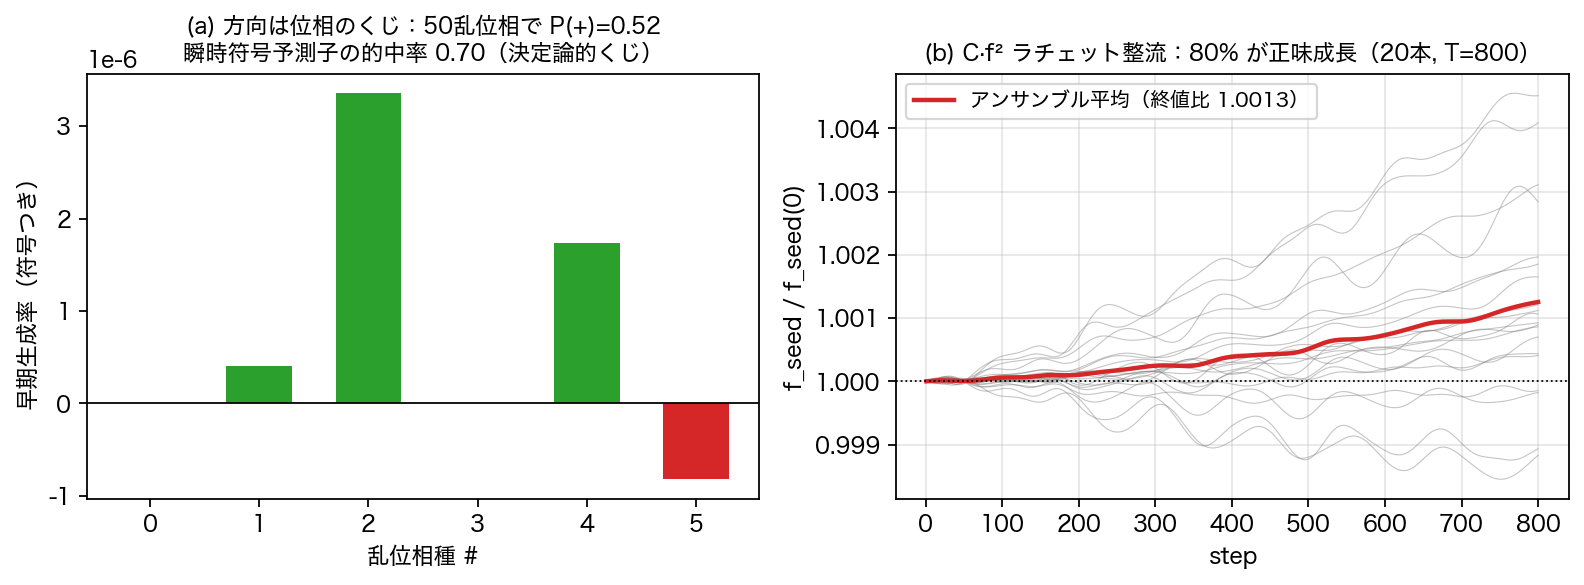
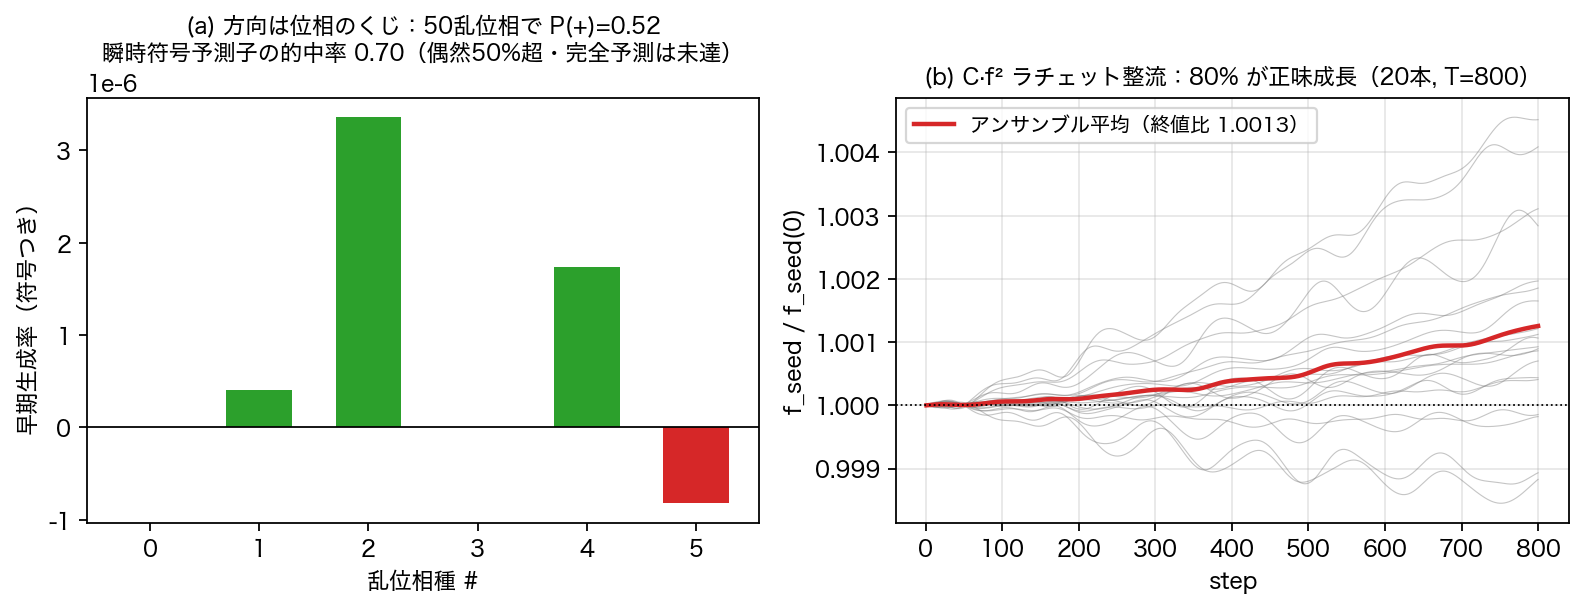
多体論文 日本語md完成v1: 三層分離・動機=二論文の隙間・二因子則(凝縮ゲート2.74=前論文終着点)・移植(p=2.0011/毛帳簿6e289)・GENESIS種の統一(ε則2%一致)・局所性の住所・運動厳密・くじ0.52+整流80%・E8null・反証修正5件(計器3系統の教訓明文化)・先行研究7分野・図9枚。図6a予測子表現を実測0.70に誠実化

diff --git a/次元の生成構造/万能相互作用多体接続_v1/make_paper_figures_multibody_v1.py b/次元の生成構造/万能相互作用多体接続_v1/make_paper_figures_multibody_v1.py
@@ -209,6 +209,7 @@ ok = (abs(frac_above - stored_ratchet["frac_final_above_init"]) < 1e-9
       and abs(mean_ratio - stored_ratchet["mean_ratio"]) < 1e-6)
 print(f"  ラチェット対照: frac={frac_above} (保存値 {stored_ratchet['frac_final_above_init']}), "
       f"mean_ratio={mean_ratio:.6f} (保存値 {stored_ratchet['mean_ratio']:.6f}) → 一致={ok}")
+np.savez_compressed(HERE / "ratchet_trajectories_v1.npz", trajs=trajs)
 
 fig, (ax1, ax2) = plt.subplots(1, 2, figsize=(10, 3.9))
 rr = np.array(pr["rates"])
@@ -216,7 +217,7 @@ ax1.bar(np.arange(len(rr)), rr, color=["tab:green" if x_ > 0 else "tab:red" for 
 ax1.axhline(0, color="k", lw=0.8)
 ax1.set_xlabel("乱位相種 #"); ax1.set_ylabel("早期生成率（符号つき）")
 ax1.set_title(f"(a) 方向は位相のくじ：50乱位相で P(+)={h1['P_plus']:.2f}\n"
-              f"瞬時符号予測子の的中率 {h1['sign_predictor_hit']:.2f}（決定論的くじ）", fontsize=10)
+              f"瞬時符号予測子の的中率 {h1['sign_predictor_hit']:.2f}（偶然50%超・完全予測は未達）", fontsize=10)
 tt = np.arange(1, T + 1)
 for i in range(trajs.shape[0]):
     ax2.plot(tt, trajs[i] / trajs[i, 0], color="tab:gray", lw=0.5, alpha=0.45)

diff --git a/次元の生成構造/万能相互作用多体接続_v1/インフレーションの終わり方が物質生成の始まり方である_完成論文_v1.md b/次元の生成構造/万能相互作用多体接続_v1/インフレーションの終わり方が物質生成の始まり方である_完成論文_v1.md
@@ -1,0 +1,258 @@
+# インフレーションの終わり方が、物質生成の始まり方である——タイミング則を置かない万能相互作用のN体埋め込みと通し創世走行
+
+木原範昭（独立研究者）
+
+2026-08-05 v1
+
+---
+
+## 要旨
+
+先行二論文は半分ずつを与えた：開始様式論文 [2] は宇宙の始まり方（不安定な自己無撞着閉包だけが潜伏指数増幅を起こし、三方向準安定構造で止まる）を与えたが、そこで力学は止まり物質がない。二体論文 [1] は生成の機構（波形のみを入力とする万能非弾性頂点）を与えたが、衝突はループカウンタであり、いつ・どこで起こるかは未回答だった。本稿はこの隙間を、**タイミング則を一切置かずに**閉じる。二体論文の頂点をN体関係波系（完全グラフの $M=N(N-1)/2$ 本の関係波 × レジスタ多スライス）に常時作用で埋め込み、次を実測した。(1) 生成の見かけの時期は**二因子則**——生成率 = 凝縮ゲート × $Cf^2$——が決める（ゲート比2.74実測）。そして凝縮とは開始様式論文の終着点そのものである：**前論文のエンディングが本論文のオープニングの条件であることは、仮定ではなく実測である**。(2) 二体の法則は多体で形を変えずに成立する：点火則は冪 $p=2.0011$・係数一定0.4%で移植され、対構造censusは毛（巻き数）込み完全版まで成立（和則排他比 $10^{289}$・毛ロック0.9997）。(3) 真空→潜伏指数増幅→三方向凝縮→物質析出を単一力学・スイッチなしで通しで走らせ（GENESIS）、インフレーションを点火する種と物質になる種が同一の摂動であること（種の統一）を発見した。(4) 局所性はグラフに住まない——完全グラフへの濃縮は生成率を変えず（比1.28, 1.02）、局所性はレジスタ軸に住む（濃縮応答×19.6）。生成物は生誕位置に固定され、調和閉鎖分散が形不変の並進を与える（1D偏差 $3\times10^{-4}$ セル以下・3D偏差0.0000）。(5) 生成方向は種の位相のくじ（50乱位相で $P(+)=0.52$）であり、正味の物質は $Cf^2$ 自己触媒の整流で生じる（アンサンブルの80%が正味成長）。条件付き導出として、媒介頂点一意化定理（閉塞保存 ⟺ $g_2=-g_1$ かつ媒介強度の対対称性——二体論文の一意化はその $M=2$ 特別場合）と、計算構造の恒等性（頂点の隣接和は辺→ノード→辺の2パスに厳密に畳め、演算量は状態サイズ線形＝理論下限。これを保証するのは無名性そのもの）を示す。本稿は仮定・条件付き導出・実測の三層を分離して報告し、仮定の価値は、独立に公開された二つの論文の物理がスイッチなしの単一力学の別の章として同時に再現されたこと——接続の実証——で測る。
+
+---
+
+## 1. 本稿の性格——仮定・導出・実測の三層分離
+
+本稿は、新しい相互作用を提案する論文ではなく、その正しさを証明する論文でもない。二体論文 [1] で明示的な仮定として置かれ条件付きで一意化された万能非弾性頂点を、N体関係波系にタイミング則を一切置かずに埋め込み、何が起こるかを実測する論文である。
+
+- **(a) 仮定**：二体論文からの頂点の継承と、埋め込みの設計選択（§4）。
+- **(b) 条件付き導出**：媒介頂点一意化定理と計算構造の恒等性（§5）。
+- **(c) 実測**：タイミングの解消、二体法則の移植、通し創世走行、位置と運動、方向のくじと整流（§6–§10）。
+
+読者が検証できるのは (b) と (c) であり、(a) は出発点である。
+
+## 2. 主張
+
+**第一に——本稿の動機であり設計原理——「いつ相互作用が起こるか」を手で選ばない。** 先行二論文は半分ずつを与えた。開始様式論文は宇宙の始まり方を与えたが、終着点（三方向準安定構造）で力学は止まり、物質がない。二体論文は生成の機構を与えたが、衝突はループカウンタであり、いつ・どこで起こるかは未回答だった。この隙間を「凝縮後に相互作用を呼ぶ」等の規則で埋めれば、それはIF文であり、二体論文が守った無名性が多体で崩壊する。本稿の設計はただ一つ：**相互作用は常時作用する**。事象らしさは入力ではなく出力である。
+
+**第二に、仮定を全て列挙する（§4）。** (i) 線形力学は第7・8論文の原本を無改変で継承（read-only import・SHA記録）。(ii) 頂点は二体論文の一意化形を隣接和に拡張——各関係波は、体を共有する関係波との二波頂点の単純和で結合する（三波以上を置かない）。(iii) 状態はレジスタ多スライス $C\in\mathbb{C}^{M\times N_{reg}}$、読出しは合算スペクトルの共有読出し。(iv) 強度は読出し量 $R$ の流用で新定数なし。**四項は設計上の選択であって導出ではない。**
+
+**第三に、媒介頂点一意化定理（条件付き導出、§5.1）。** 仮定クラスの内部で、閉塞保存は $g_2=-g_1$ **かつ**媒介強度の対対称性を強制する。二体論文の $g_2=-g_1$ はこの定理の $M=2$ 特別場合である。閉塞が強度に要求するのは対対称性のみで、算術平均則は閉塞から導出されない追加の実験事実である。拡張定理 T-L：レジスタ点ごとの対対称強度 $R_{ee'}(n)$ も閉塞を厳密保存する——局所的な相互作用強度は公理と両立する（機械検証済み）。
+
+**第四に、計算構造の恒等性（条件付き導出、§5.2）。** 頂点の隣接和は、辺→共有ノード→辺の2パス集約（頂点モーメントと自己減算）に厳密に畳める。演算量は状態サイズ線形 $O(M\cdot N_{reg}\log N_{reg})$——全対照合 $O(N^4)$ も隣接和 $O(N^3)$ も不要で、理論下限に達する。この畳み込みを可能にするのは無名性（全対同一法則・対固有定数なし）そのものである。
+
+**第五に、実測1：タイミング問題は二因子則として解消した（§6）。** 生成率 = 凝縮ゲート × $Cf^2$。凝縮ゲート比2.74を実測した。凝縮とは開始様式論文の終着点——三方向準安定構造——である。前論文のエンディングが本論文のオープニングの条件であることは、仮定ではなく実測である。
+
+**第六に、実測2：二体の法則は多体で形を変えずに成立する（§7）。** 点火則は冪 $p=2.0011$・係数一定0.4%で再現。censusは毛込み完全版まで成立：和則排他（予言外は $10^{-289}$ 倍）、毛ロック0.9997、厳密ゼロからの同時成長。
+
+**第七に、実測3：通し創世走行 GENESIS（§8）。** 真空→潜伏指数増幅→三方向凝縮→物質析出を単一力学・スイッチなしで走らせた。発見：**種の統一**——インフレーションを点火する種と物質になる種は同一の摂動である。
+
+**第八に、実測4：位置と運動（§9）。** 局所性はグラフに住まない（濃縮無効、比1.28, 1.02）。局所性はレジスタ軸に住む（応答×19.6）。生成物は生誕位置に固定され、運動は調和閉鎖分散 $\omega_k=k\,\omega_1$ [6] が与える（1D/3Dで形不変並進を実証）。
+
+**第九に、実測5：方向のくじと整流（§10）。** 生成方向は種の位相が決める（50乱位相で $P(+)=0.52$）。瞬時符号予測子の的中率は0.70——偶然50%を上回るが、事前基準0.9には未達であり、くじの決定論性は部分的確認にとどまる（完全な瞬時予測子は公開課題）。正味の物質は対称性の破れの手置きではなく $Cf^2$ 自己触媒の整流で生じ、アンサンブルの80%が正味成長した。モデル内部の機構の実測であり、現実宇宙の物質優勢の説明とは主張しない。
+
+**第十に、null結果を記録する（§11）。** E8関連特殊値系列（$N_{reg}=124,137,144,248$ 等）の選択性は、検定した全計器で null だった。
+
+**第十一に、反証と修正の全過程を記録する（§12）。** 計器の誤り3系統（保存判定・生成率予測子・運動重心計）を含む。
+
+**最後に、本稿が主張しないことと反証条件（§15）。**
+
+## 3. 動機——二つの論文は、つながっていなかった
+
+開始様式論文 [2] の結論はこうである：不安定な自己無撞着閉包（単一コヒーレント凝縮体）だけが潜伏指数増幅を起こし、白色の混沌からは何も増幅されない。増幅の終着点は三方向準安定構造であり、そこで線形力学は完結する。**時空はできた。しかし物質はなく、出来事もない。**
+
+二体論文 [1] の結論はこうである：波形だけを見るIF文なしの単一写像が、誘導・自己触媒・対相関でフェルミオン的構造を生成する。**物質の作り方は分かった。しかし宇宙がない。** 二体系の「衝突」はループカウンタであり、いつ・どこで・なぜ衝突が起こるかは力学の外にあった。
+
+この隙間は未完成ではなく致命傷の候補だった。「相互作用はインフレーション後に呼ぶ」とタイミングを手で選べば、それは粒子種判別と同格のIF文であり、二体論文が守り抜いた無名性が多体への埋め込みの瞬間に崩壊する。都合の良いときだけ相互作用を呼ぶモデルに、生成を語る資格はない。したがって設計は一つしかない：常時作用で埋め込み、「いつ」が物理として出力されるかどうかを実測する。それが本稿である。
+
+## 4. モデルと仮定
+
+### 4.1 関係波グラフ（継承）
+
+基本変数は体（粒子）に住まない。$N$ 個の体（ノード）の各ペアに関係波 $z_e\in\mathbb{C}$ が1本ずつ住む（辺、$M=N(N-1)/2$ 本）。ノード自身は変数を持たず、帳簿の集約点である。二つの関係波は体を共有するとき（隣接）に限り相互作用の資格を持つ——共有する体が媒介する（図1）。線形力学（生成子 $K_{ef}=\sin(\theta_f-\theta_e)$、Cayley一歩、自己無撞着閉包・潜伏・急拡大・三方向生成）は第7・8論文 [3,4] の原本コードを無改変で継承する（SHA-256記録・read-only import）。
+
+![図1 関係波グラフ](fig_graph_N6_v1.png)
+
+**図1**：N=6の関係波グラフ。(a) 体＝ノード、関係波＝辺（M=15本が力学変数）。(b) 隣接＝体の共有：z12（赤）の相互作用相手は体1か体2を共有する8本（青）のみで、共有のない6本（灰破線）は直接結合しない。(c) ノード帳簿：体1に集まる関係波の合計 $A_1$。
+
+### 4.2 埋め込みの仮定
+
+| # | 仮定 | 内容 |
+|---|------|------|
+| (i) | 線形力学の継承 | 第7・8論文原本の read-only import。スライス（レジスタ倍音）ごとに独立に作用 |
+| (ii) | 頂点＝二波頂点の隣接和 | 各辺 $e$ は隣接辺 $e'$ との二体頂点の単純和で結合：$\delta z_e = i\sum_{e'\sim e} R_{ee'}(|z_{e'}|^2 z_e - z_{e'}^2\bar z_e)$。三波以上の頂点は置かない |
+| (iii) | レジスタ多スライス | 状態 $C\in\mathbb{C}^{M\times N_{reg}}$。頂点はレジスタ位置空間の点ごとに作用。読出しは合算スペクトルの共有読出し $\theta=\operatorname{atan2}(\sqrt{P_f},\sqrt{P_b})$, $R=\sin^2\theta$ |
+| (iv) | 新定数なし | 強度は $R$ の流用。判別分岐（IF文）なし（実装の `r>0` は強度ゼロスキップの数値ガード） |
+
+四項は設計選択である。(ii) の二波型と (iv) の無名性は二体論文の仮定の直接継承であり、(i)(iii) は本稿固有の埋め込み選択である（図2）。
+
+![図2 アーキテクチャ](fig_mb1_architecture_v1.png)
+
+**図2**：状態はグラフ軸（M本の関係波）×レジスタ軸（$N_{reg}$ 点）の直積格子。線形部はスライス（列）ごと、頂点はレジスタ点ごとにノード帳簿を介して作用する。
+
+## 5. 条件付き導出
+
+### 5.1 媒介頂点一意化定理
+
+仮定クラス（二波型・点ごと・三次・共通位相不変・自己散乱なし）の最も一般な形 $\delta z_e = i\sum_{e'\sim e}(g_1 R_{ee'}|z_{e'}|^2 z_e + g_2 R'_{ee'} z_{e'}^2\bar z_e)$ に対し、零二乗和閉塞 $\sum_e z_e^2$ の保存（レジスタ点ごと）は次を強制する：
+
+$$g_2 = -g_1 \quad\text{かつ}\quad R_{ee'} = R_{e'e}\ (\text{対対称性}).$$
+
+証明は一次変分の対ごとの相殺による：辺対 $(e,e')$ の寄与は $g_1 R_{ee'}|z_{e'}|^2 z_e^2 + g_2 R'_{ee'} z_{e'}^2 |z_e|^2$ とその $e\leftrightarrow e'$ 交換の和であり、恒等的にゼロになるのは係数が反対符号で強度が対対称のときに限る。三点を明確にする。第一に、これはクラス内一意性である。第二に、二体論文の $g_2=-g_1$ [1] は本定理の $M=2$（隣接和が相手一つ）特別場合である。第三に、閉塞が強度に要求するのは対対称性**のみ**であり、二辺の $R$ が異なる場合の混合則として算術平均も積もともに閉塞を厳密保存する（機械検証 T5）。実際の力学が算術平均と整合することは追加の実験事実である。
+
+**拡張定理 T-L**：対対称性は点 $n$ ごとに成立するから、レジスタ点依存の対対称強度 $R_{ee'}(n)$ も閉塞を厳密保存する。機械検証：ランダムな $n$ 依存対対称 $R$ でドリフト $1.0\times10^{-17}$（機械零）、非対称にすると $1.7\times10^{-2}$（破れ）。**局所的な相互作用強度は公理と両立する**——局所性の禁止は公理からは出ない。
+
+### 5.2 計算構造の恒等性——無名性が計算可能性を保証する
+
+頂点の隣接和を素朴に評価すると、各辺が $2(N-2)$ 本の隣接辺を走査して $O(M\cdot N)=O(N^3)$／レジスタ点かかる。しかし (ii) の二波型（隣接相手について加法的、相手同士の交差項なし）と対対称平均強度の分離可能性により、隣接和は**厳密に**次へ畳める：辺 $e=(u,v)$ について
+
+$$\sum_{e'\sim e} |z_{e'}|^2 = A_u + A_v - 2|z_e|^2, \qquad A_v \equiv \sum_{e\ni v}|z_e|^2$$
+
+（$z^2$ 型・$R$ 重みつきを含む4種の帳簿で同様）。計算は「辺→ノード集約」「ノード→辺読み戻し＋自己減算」の2パス、各 $O(M)$ である。これは平均場近似ではなく恒等変形であり、素朴実装との一致は機械精度で検証した。1ステップの総演算量は $O(M\cdot N_{reg}\log N_{reg})$——状態を1回読むのと同じオーダ＝理論下限である。
+
+物理的意味を明示する。情報は辺→共有ノード→辺と流れる：**相互作用は対ごとの直接照合ではなく、体を媒介した集約と再配布**であり、$O(M)$ アルゴリズムは「媒介頂点」の文字通りの実装である。そしてこの畳み込みを可能にするのは無名性そのものである——対ごとに任意の結合定数 $R_{ee'}$ を置けば（無名性違反）、分離可能性は失われ $O(N^3)$ に戻る。物理の原理が実装の計算可能性を直接保証する。
+
+**保存量の実測**（不変量を導出してから判定する規律の下で）：ノルム相対ドリフト $3.1\times10^{-14}$、頂点単独の点ごと閉塞ドリフト $7.3\times10^{-11}$、線形部単独のスライス閉塞ドリフト $1.4\times10^{-15}$（それぞれが不変量である場合のみ判定。§12参照）。頂点ON/OFFの生成量分離は11桁、ONの生成量は点火則から導出した予測値と因子4.2で整合。
+
+## 6. 実測1：二因子則——タイミング問題の解消
+
+常時作用で埋め込んだ結果、「いつ生成が起こるか」は消滅せず、物理として再出現した：
+
+$$\text{生成率} = \text{凝縮ゲート} \times C f^2.$$
+
+**凝縮ゲート**（図3a）：同一ノルム・同一種で、ポンプを凝縮状態（三方向準安定構造）と非凝縮状態（同エネルギーの非コヒーレント状態）に置いた対照で、生成率は $6.30\times10^{-8}$ 対 $2.30\times10^{-8}$——**ゲート比2.74**。凝縮とは開始様式論文 [2] の終着点そのものである。
+
+**時代変調**（図3b）：通し走行（§8）の窓別生成率は、潜伏期 $3.3\times10^{-7}$ → バースト期 $1.4\times10^{-6}$ → 凝縮後 $6.4\times10^{-6}$ と単調に開き、潜伏期から凝縮後で**×19.5**。相互作用は常時作用しているのに、生成の見かけの時期は宇宙の時代が作る。
+
+![図3 二因子ゲート](fig_mb2_gate_v1.png)
+
+**図3**：(a) 凝縮ゲートの対照実験。(b) 通し走行の時代変調。タイミング則を書かずに、タイミングが出力された。
+
+## 7. 実測2：二体法則の移植テスト
+
+**点火則**（図4）：種割合 $f_0$ の4桁掃引で、初期生成率は $\mathrm{rate}=Cf^p$、$p=2.0011$、$C$ の広がり0.37%。エンジン改訂（段階2→段階3共有O版）を跨いでも $p=2.0015$・$C=5.88$ と法則形は不変である。二体論文の自己触媒点火則 [1] は多体の海の中で形を変えない。
+
+![図4 点火則の移植](fig_mb3_ignition_v1.png)
+
+**図4**：(a) 多体点火則 rate=C·f^p（log-log、4桁）。(b) 係数の一定性。
+
+**対構造census・毛込み完全版**（図5）：狭帯域ポンプ＋単一種の事前予言型censusを、レジスタ（$k$）と毛（$\eta$ 巻き数 $m$）の2次元帳簿で実行した。相棒帯 $k=3$ の毛分解パワーは、和則 $m^* = 2m_B - m_s = 3$ の指定する毛にのみ現れ（**排他比 $6.1\times10^{289}$**——予言外の毛は機械零に対する比）、対相関ロックは0.9997。相棒帯は厳密ゼロから側帯と同時に立ち上がる。帳簿は頂点1回作用の出力から機械導出しており、手置きの定数はない。なお対相関ロックは長時間で緩慢に減衰する（10窓目0.988、図5b）——原因は未解明であり公開課題として記録する。
+
+![図5 census毛込み完全版](fig_mb4_census_v1.png)
+
+**図5**：(a) 毛の帳簿：予言 $m^*=3$ のみが生成。(b) ロックの持続と緩慢な減衰（公開課題）。
+
+## 8. 実測3：GENESIS——通し創世走行
+
+真空（二キラリティ真空対の不安定枝）に微小種 $\delta$ を加えた初期状態から、単一の力学を4000ステップ走らせた（図6）。スイッチ・時代切替・パラメータ変更は一切ない。
+
+![図6 GENESIS](fig_mb8_genesis_v1.png)
+
+**図6**：上：スライス2真空の不安定枝が潜伏ののち指数増幅し（crossing $t=180$）、三方向準安定構造へ凝縮する。中：一段残差 $r$（時計）。下：移動窓の生成率が時代とともに開く（×19.5）——二因子則の通し実証。
+
+**発見1：種の統一。** 走行前の予言では、インフレーションの点火は系の内在床（親固有モード残差 $2.1\times10^{-13}$ [2]）が種になると仮定し、crossing を1161–1171と登録した。実測は555（$\delta=10^{-6}$ 系列）——予言帯から大きく外れた。診断の結果、**物質用に注入した種 $\delta$ 自身がインフレーションを点火していた**：開始様式論文のε則（crossing は $-\ln\varepsilon$ に線形、傾き $1/\lambda$）に $\varepsilon=\delta=10^{-6}$ を代入すると予言は約543となり、実測555と2%で一致する。インフレーションを起こす種と物質になる種は、別々の仕掛けではなく同一の摂動である。予言の失敗が接続の発見に転じた。
+
+**帰結：小さい種の海は事実上不活性。** $\delta=10^{-6}$（$f_0=10^{-12}$）では3000ステップの生成が測定限界以下（$|g|<10^{-11}$）に留まり、$\delta=10^{-2}$ では明瞭に生成する（$6.4\times10^{-6}$）。点火時間が $1/f_0^2$ でスケールする二体則の帰結が、多体宇宙でそのまま現れる。
+
+## 9. 実測4：位置と運動
+
+**局所性はグラフに住まない**（図7a）。種を完全グラフの星型部分集合（濃縮6倍）へ集中させても、生成率は一様種と変わらない（比1.28, 1.02）。完全グラフ $K_N$ には距離がなく、頂点はノード帳簿越しの集約でしか隣接を見ないから、グラフ上の「近さ」は物理に存在しない。
+
+**局所性はレジスタ軸に住む**（図7b）。同一パワーの種をレジスタ位置空間のパケット（濃縮8倍、実効幅 PR=2）に局在させると、生成応答は**19.6倍**になる。さらに生成物のレジスタ分布は成長を通じて PR=2 のまま生誕位置に固定される——**粒子は位置を持つ**。
+
+![図7 局所性の住所](fig_mb5_locality_v1.png)
+
+**図7**：(a) グラフ濃縮は無効。(b) レジスタ濃縮は×19.6。局所性の住所はグラフではなくレジスタ軸である。
+
+**運動**（図8）。線形部は分散を持たない（全倍音同速）ため、固定パケットは動かない。調和閉鎖分散 $\omega_k = k\,\omega_1$ ——逆二乗則論文 [6] が加速度の幾何から導いた分散関係——をレジスタ時計として導入すると、これは並進演算子に他ならず、パケットは形を変えずに等速で動く。実測：1Dで8記録点すべて予言と偏差 $3\times10^{-4}$ セル以下、整数セルシフトで波形が厳密に初期形へ回帰（PR 1.000）。3D（$8^3$ レジスタ・3軸独立速度）で全記録点の偏差0.0000、PR一定3.39。頂点ON・種込みでの剛体並進である。
+
+![図8 運動](fig_mb7_motion_v1.png)
+
+**図8**：(a) 1D並進（mod 8表示）。(b) 3D等速直線運動。
+
+## 10. 実測5：方向のくじと整流
+
+**方向のくじ**（図9a）。個々の種の生成方向（物質側 $+$ か反物質側 $-$ か）は種の位相プロファイルが決める。50個の乱位相パケット種で $P(+)=0.52$——ほぼ50/50のくじである。頂点レートの奇数射影から構成した瞬時符号予測子の的中率は0.70で、偶然（0.5）を上回るが事前基準0.9には未達——くじが力学的に決定されていることの部分的確認にとどまり、完全な瞬時予測子の構成は公開課題である。なおチャネル多重度の検定では、種の倍音本数 $n_h$ に対し生成率が冪 $q=0.91$ で増加し、レジスタ局所性（§9）の Fourier 双対＝四波混合チャネル数の増加という読みと整合する。
+
+**ラチェット整流**（図9b）。方向が50/50のくじなら、なぜ正味の物質が残るのか。自己触媒 $Cf^2$ は「増えた側がさらに速く増える」整流器である：乱位相アンサンブル20本・800ステップで、**80%が正味成長**した（平均終値比1.0013）。対称性の破れを手で置かずに、可逆な素過程＋自己触媒だけで正味が生じる。これはモデル内部の機構の実測であり、現実宇宙の物質優勢の説明とは主張しない。
+
+![図9 くじと整流](fig_mb6_lottery_ratchet_v1.png)
+
+**図9**：(a) 符号つき生成率（乱位相6例）と50個統計。(b) アンサンブル軌跡と平均（赤）。
+
+## 11. null結果の記録——E8特殊値の選択性
+
+レジスタ数 $N_{reg}$ がE8関連の特殊値（124, 137, 144, 248）で選択的な振る舞いを示すかを、四系統の計器——線形位相の全帯域検定・一次点火率・熱化エントロピー・梯子前線の衝突干渉（Nyquist帯パワー）——で検定した。**すべてnull**（特殊値と近傍の比が全て事前帯 [0.5, 2] 内）。探索の動機（シリーズ内部のE8構造仮説）と計器設計・失敗した初期計器（§12）を含めて記録する。選択性が「ない」ことの確定は、あることの主張と同じ重みで書かれるべきである。
+
+## 12. 反証と修正の記録
+
+| # | 誤り | 発見 | 修正 |
+|---|------|------|------|
+| 1 | 保存判定で非不変量を測定（スライス独立線形の下で点ごと閉塞は不変でない）＋根拠のない閾値 $10^{-6}$ | U2/U3 FAIL | 不変量を導出してから判定する方式へ（v2で全成立）。規律：**保存判定は必ず不変量の導出を先に書く** |
+| 2 | 同種の誤りの再発（頂点ONの下でスライス閉塞は不変でない） | 段階3 B2 FAIL | 点ごとの場の閉塞（真の不変量）で再判定・規律を明文化 |
+| 3 | 生成率予測子の誤り2回（累積量と瞬時量の混同／自辺積と媒介積の混同） | D1-P2 FAIL | 二チャネル完全予測子（パラメトリック＋うなりXPM）へ——段階コヒーレンス0.9998 |
+| 4 | D2計器の盲点（点火窓が低スライスに閉じる／負周波数梯子の別名を「壁到達」と誤検出） | 全$N_{reg}$で $t_{wrap}=1$ | 第三世代の梯子前線計器（正枝制限・前線追跡）で再検定→null確定 |
+| 5 | 運動計器の恒等零欠陥：奇数倍音パケット（$|W|^2$ が周期 $N/2$）に対し基本巻きモーメントは恒等的にゼロ——v1の位置読み値はノイズだった | 位置系列の検収で発覚（$|z_1|\sim10^{-16}$ を確認） | 巻き数2モーメント（位置は mod $N/2$）へ修正。さらに予言式の符号誤り（$e^{+ik\omega_1}$ は $-$方向並進）を較正。修正後、1D全8点偏差 $3\times10^{-4}$ 以下・3D全点0.0000で厳密成立 |
+
+3系統（#1–2、#3、#5）はいずれも「測るべき量を導出せずに計器を作った」誤りである。同じ轍を三度踏んだことを、規律として明文化する：**計器は、測定量の不変性（または予言値）を導出してから設計する。**
+
+## 13. 先行研究——独自検討の後に見出した対応
+
+本稿のアーキテクチャは二公理と二体論文の頂点からの独自構成であり、以下に依拠して設計したものではない。設計後の再調査により次の対応を見出した。対応は枠組みが孤立した空想でないことの傍証であり、正しさの証明ではない。
+
+1. **変数が辺に住む——格子ゲージ理論** [8]。Wilsonの格子ゲージ理論ではゲージ場（リンク変数）が辺に住み、相互作用はサイトとプラケット経由で構成される。相違：あちらは背景格子（固定幾何）とゲージ群を入力し、サイトに物質場が住む。本稿は幾何なし（完全グラフ）・群は事後分類・ノードに変数が一切ない。
+2. **対自由度から時空が創発——行列模型（IKKT/BFSS）** [9]。基本自由度は行列の非対角成分＝ブレーン対を結ぶ弦（対ごとの関係自由度）で、背景時空はなく、Lorentzian IKKT のモンテカルロでは9次元対称性が自発的に破れ3次元の膨張空間が出現する [10]——本シリーズの三方向創発と現象論的に並行する。相違：作用は超弦理論由来（超対称性を入力）、行列は対角（体の位置変数）を持つが本稿は純関係、そして局所性の住所が異なる（次項）。
+3. **完全グラフと局所性——quantum graphity** [11]。自由度が完全グラフに住み物理が頂点置換で不変（＝無名性）という出発点まで本稿と同型であり、低エネルギー相でグラフが間引かれることで局所性が創発すると提案した。本稿の実測は**同じ問いへの逆の答え**である：グラフは完全のまま局所性はグラフに現れず（§9）、レジスタ軸に住む。
+4. **辺上の振動子とノード媒介——トポロジカルKuramoto** [12]。位相振動子を辺に載せHodgeラプラシアン（ノード共有）で結合する近年の枠組みは、本稿の隣接構造と最も近い数理形式である。相違：結合は勾配型で対象は同期、本稿は閉塞保存が選ぶ三次交換流で対象は生成。
+5. **全結合の厳密縮約——Kuramoto平均場** [13]。秩序パラメータの先行集計による $O(N^2)\to O(N)$ 縮約は、本稿のノード帳簿の古典的先行である。相違：本稿は辺変数のノード集約＋自己減算（異常項 $z^2$ を含む4帳簿）で、厳密性の根拠が無名性（対固有定数の不在）にある。
+6. **通し数値創世——preheating格子計算** [14]。LATTICEEASY等は真空からの粒子生成を一本の走行で追う。相違：膨張時空とポテンシャルと場の内容を入力する。本稿は単一の無名力学のみで、時空（三方向構造）自体が出力の一部であり、「いつ」も出力である。
+7. **関係論的力学の系譜——Barbour–Bertotti** [15]。Mach原理のN体実装（相対配置空間上の力学）。相違：あちらは粒子位置を変数のまま商で割る（関係化＝縮約操作）。本稿は最初から関係が変数であり、体の変数が理論のどこにも現れない。
+
+## 14. 展望——未解決課題（進行指針、本稿は主張しない）
+
+1. **B4ロック減衰の原因**（図5b）：対相関ロックの緩慢な減衰の機構特定。
+2. **完全な瞬時符号予測子**（§10）：的中率0.70→力学的決定性の完全確認。
+3. **位相選択の整流効率**：ラチェットの定量理論（物質優勢率の予言式）。
+4. **枠とレジスタの結婚**：三方向準安定構造（グラフ側の枠）とレジスタ位置の統合幾何、弦長公式 $R''=2R\sin(\Delta\theta/2)$ による計量。
+5. **パリティ・毛の内部軸への分離**：純粋な位置3軸＋内部自由度への整理（周期律表プログラム）。
+6. **E8**：全計器nullを踏まえ、探索の場を8軸スピノル構造（別系列の理論的検討）へ移す。
+
+## 15. 本稿が主張しないこと・反証条件
+
+本稿は、現実の宇宙がこの模型であることを主張しない。二因子則・種の統一・レジスタ局所性は「この力学とこの埋め込みを仮定すれば」の帰結である。反証条件：(a) 凝縮ゲートを通らない生成（非凝縮状態からの同率生成）、(b) 統一されない種（インフレーション種と物質種の乖離がε則を破る）、(c) グラフ局所性の発見（濃縮が生成率を系統的に変える）、(d) 移植法則の破れ（$p\neq2$ または $C$ の非一定性）——のいずれかがより制約の強い実験系で示されれば、埋め込みの主張は棄却される。仮定の価値は正しさではなく、**接続の実証**——独立に公開された二論文の物理が、スイッチなしの単一力学の別の章として同時に再現されたこと——で測る。
+
+## 16. 再現性
+
+シリーズ規約（シリーズ内完結の再現・原本はスナップショット照合の上 read-only import・判定基準は実行前固定）に従う。
+
+- **原本**：第8論文 `run_preliminary_seed_ablation_v1.py`（SHA-256 75a10a5b…）、生成器v3 `make_parent_white_harmonics_n_only_v3.py`（SHA-256 d3217579…）。
+- **本稿コード**（`次元の生成構造/万能相互作用多体接続_v1/`）：設計方針・定理文書（`媒介頂点の一意化と多体アーキテクチャ_v1.md`）、段階1–3エンジンとテスト（`run_stage1_multislice_engine_v1.py`, `run_stage2_vertex_engine_v1.py`, `run_stage2_tests_corrected_v2.py`, `run_stage3_sharedO_v2_and_hair_v1.py` ほか）、判別実験（`run_stage2_discriminators_v1.py`）、GENESIS（`run_genesis_v1.py`, `_v2_local`, `_v3_register_local`）、残穴実験（`run_holes_h1_h2_v1.py`, `run_h3_ladder_front_v1.py`）、ラチェット（`run_ratchet_test_v1.py`）、運動（`run_kinetic_dispersion_demo_v1–v3.py`, `run_genesis_3d_demo_v1–v2.py`）、図生成（`make_paper_figures_multibody_v1.py`——系列未保存実験は同一シードで再走行し保存済み要約値との一致を対照検定してから描画）。
+- **結果JSON**：本文の全数値は各 `*_result_*.json` と一致する。
+- **媒介定理の機械検証**：`test_mediated_vertex_closure_v1.py`（T1–T5）。
+
+## 参考文献
+
+**シリーズ内（依存箇所を明記）**
+
+[1] 木原範昭『フェルミオン的構造の生成は誘導・自己触媒・対相関で起こる』(2026), Zenodo. Concept DOI: 10.5281/zenodo.21808091（埋め込む頂点・移植元の全法則、全編）
+
+[2] 木原範昭『幾何級数的急拡大は不安定な自己無撞着閉包に固有である』(2026), Zenodo. Concept DOI: 10.5281/zenodo.21798854（開始様式・三方向凝縮・ε則・生成器、§3, §6, §8）
+
+[3] 木原範昭『第7論文：N体関係波閉鎖系の時間構造』(2026), Zenodo. Concept DOI: 10.5281/zenodo.21543070（線形力学の現象の正典、§4）
+
+[4] 木原範昭『第8論文：二段階seed除去による因果分離』(2026), Zenodo. Concept DOI: 10.5281/zenodo.21614402（線形力学コードの直接原本、§4, §16）
+
+[5] 木原範昭『無名等振幅複合波モデル 基本公理系』(2026), Zenodo. Concept DOI: 10.5281/zenodo.21315735（零二乗和閉塞と有限回帰の二公理、§5）
+
+[6] 木原範昭『AB二体閉鎖位相系における未来位相位置加速度写像と調和閉鎖による逆二乗則』(2026), Zenodo. DOI: 10.5281/zenodo.21441081（調和閉鎖分散 $\omega_k=k\,\omega_1$、§9のみ）
+
+[7] 木原範昭『フェルミオンの生成構造』(2026), Zenodo. Concept DOI: 10.5281/zenodo.21766706（読出し $\theta$・$R$・フェルミオンマスクの定義の原本、§4）
+
+**外部**
+
+[8] K. G. Wilson, "Confinement of quarks," Phys. Rev. D **10**, 2445 (1974)
+
+[9] N. Ishibashi, H. Kawai, Y. Kitazawa, A. Tsuchiya, "A large-N reduced model as superstring," Nucl. Phys. B **498**, 467 (1997); T. Banks, W. Fischler, S. H. Shenker, L. Susskind, "M theory as a matrix model," Phys. Rev. D **55**, 5112 (1997)
+
+[10] S.-W. Kim, J. Nishimura, A. Tsuchiya, "Expanding (3+1)-dimensional universe from a Lorentzian matrix model," Phys. Rev. Lett. **108**, 011601 (2012)
+
+[11] T. Konopka, F. Markopoulou, L. Smolin, "Quantum graphity," arXiv:hep-th/0611197 (2006); T. Konopka, F. Markopoulou, S. Severini, "Quantum graphity: a model of emergent locality," Phys. Rev. D **77**, 104029 (2008)
+
+[12] A. P. Millán, J. J. Torres, G. Bianconi, "Explosive higher-order Kuramoto dynamics on simplicial complexes," Phys. Rev. Lett. **124**, 218301 (2020); A. Arnaudon, R. L. Peach, G. Petri, P. Expert, "Connecting Hodge and Sakaguchi-Kuramoto through a mathematical framework for coupled oscillators on simplicial complexes," Commun. Phys. **5**, 211 (2022)
+
+[13] Y. Kuramoto, *Chemical Oscillations, Waves, and Turbulence* (Springer, 1984)
+
+[14] G. Felder, I. Tkachev, "LATTICEEASY: A program for lattice simulations of scalar fields in an expanding universe," Comput. Phys. Commun. **178**, 929 (2008); A. V. Frolov, "DEFROST: A new code for simulating preheating after inflation," JCAP **0811**, 009 (2008)
+
+[15] J. B. Barbour, B. Bertotti, "Mach's principle and the structure of dynamical theories," Proc. R. Soc. A **382**, 295 (1982)
